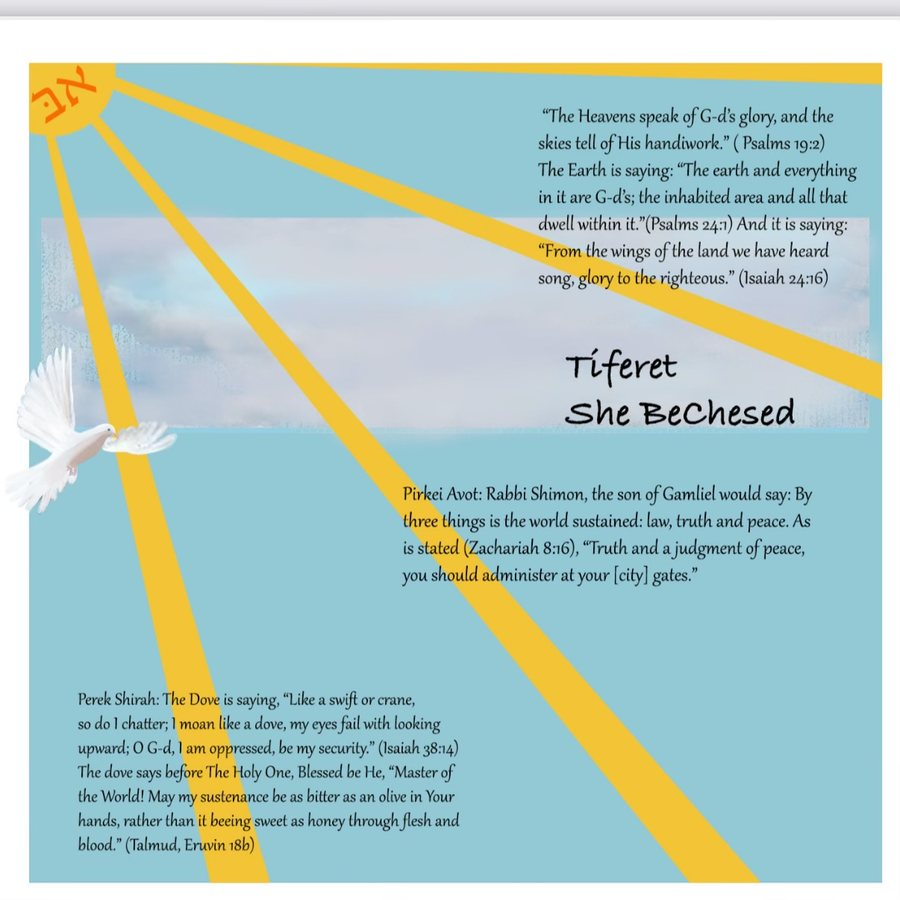
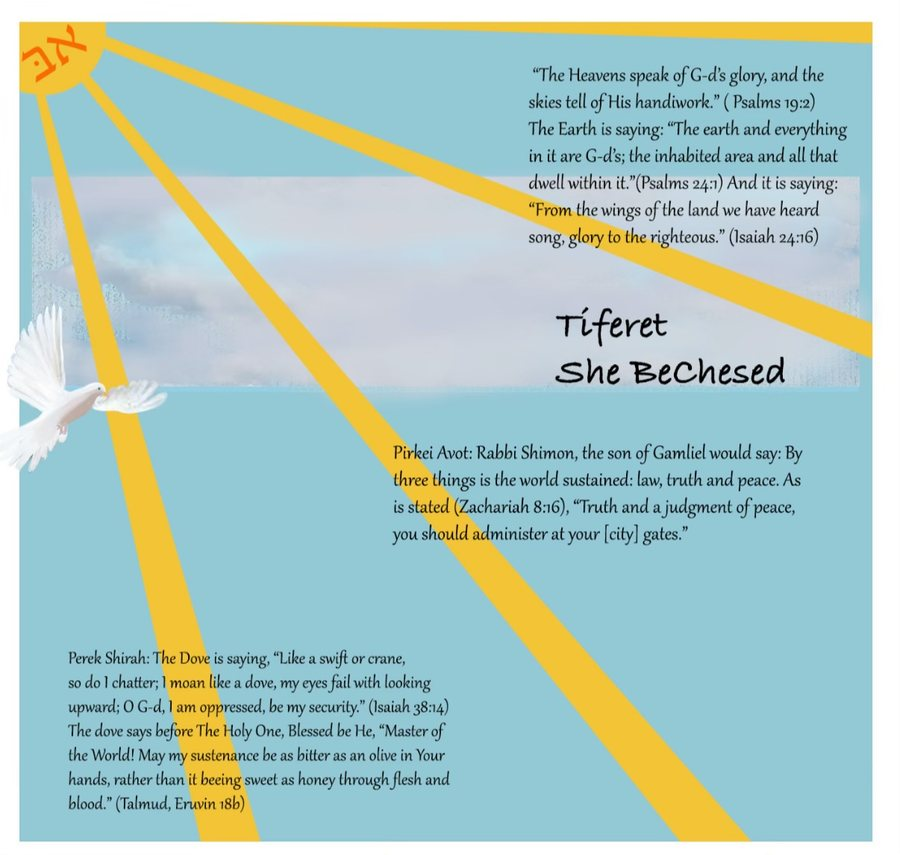
Replace week 3 with the cleaner capture of the same page
The Dove page arrived again, this time labelled week 3, and cropped
better: the first capture carried a grey band across the top, this one
does not. Same artwork — the two differ only in framing — so the newer
file stands and the declared height follows it, 855 rather than 900.

Claude-Session: https://claude.ai/code/session_01RS2FMfmK8R2uQnxc6BrjxF

diff --git a/index.html b/index.html
@@ -9760,7 +9760,7 @@ hr.wr-hr{border:none;border-top:1px solid var(--border);margin:14px 0;}
   const WEEK_ART = {
     '1':  [900, 965],
     '2':  [900, 858],
-    '3':  [900, 900],
+    '3':  [900, 855],
     '5':  [900, 867],
     '50': [900, 895],
   };
